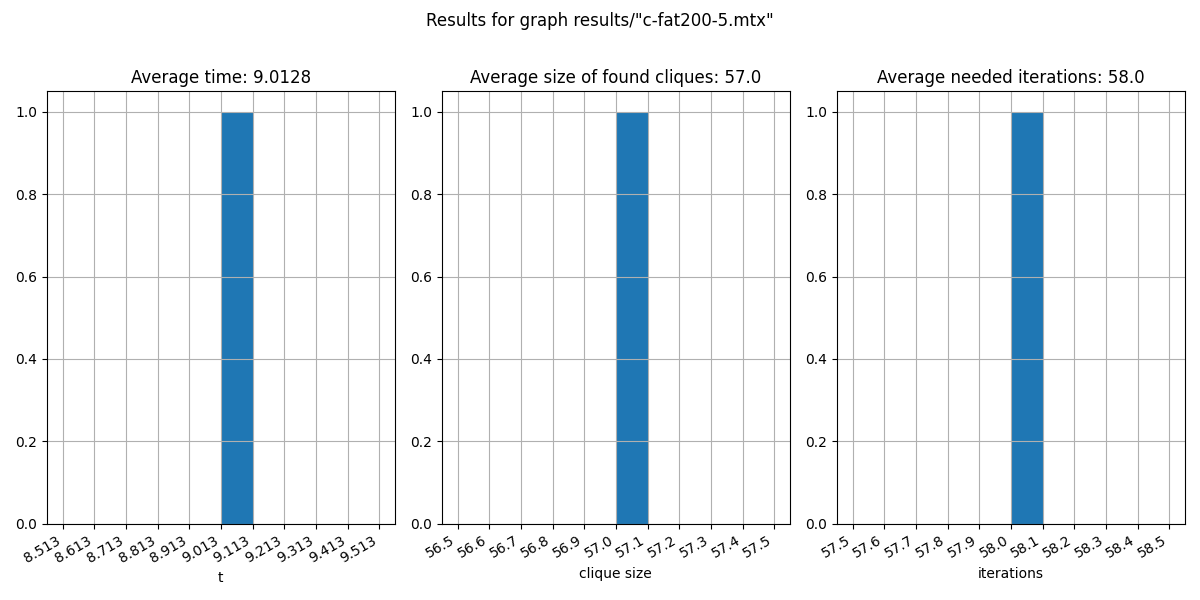
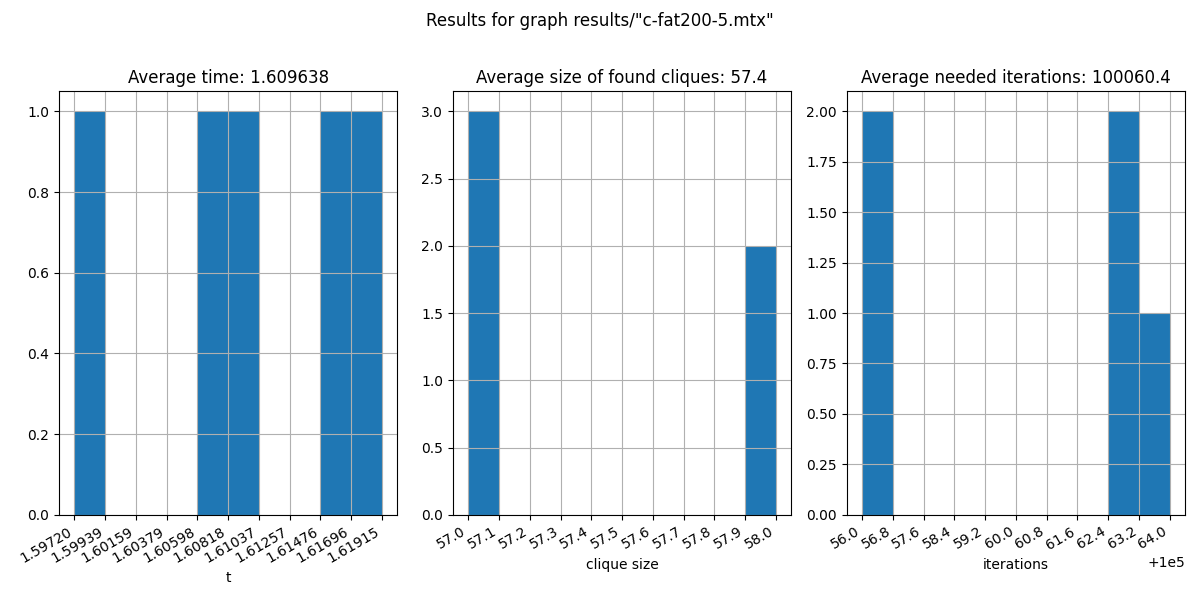
Popravljeno generisanje slucajnih brojeva

diff --git a/main.cpp b/main.cpp
@@ -25,52 +25,55 @@ int main() {
             std::vector<int> iterCounts{};
             std::vector<int> cliqueSizes{};
 
-            int maxIters = 100000;
-            int L = g.getNodeCount();
+            // ponavljamo za jedan graf 5 puta
+            for(int i = 1; i <= 5; ++i) {
+                int maxIters = 100000;                  // probati i sa nekim vecim parametrom potencijalno, ali to povlaci vece vreme
+                int L = g.getNodeCount();
 
-            auto start = std::chrono::high_resolution_clock::now();
+                auto start = std::chrono::high_resolution_clock::now();
 
-            int currentCliqueSize = 3;
-            int maxFoundCliqueSize = 0;
-            int totalIterations = 0;
+                int currentCliqueSize = 3;
+                int maxFoundCliqueSize = 0;
+                int totalIterations = 0;
 
-            
-            std::cout << "--------------------------------------------------------------------------" << std::endl;
-            std::cout << "Finding maximum clique in graph: " << dirEntry.path().stem() << std::endl;
-            std::cout << "--------------------------------------------------------------------------" << std::endl;
+                
+                std::cout << "--------------------------------------------------------------------------" << std::endl;
+                std::cout << "Finding maximum clique in graph: " << dirEntry.path().stem() << " attempt " << i << "/5"  << std::endl;
+                std::cout << "--------------------------------------------------------------------------" << std::endl;
 
-            while(true) {
-                std::cout << "Trying to find clique of size: " << currentCliqueSize << std::endl;
+                while(true) {
+                    std::cout << "Trying to find clique of size: " << currentCliqueSize << " ..... ";
 
-                auto [resultClique, passedIterations] = amts(g, currentCliqueSize, L, maxIters);
-
-                if(resultClique.size() == 0) {
-                    std::cout << "Failed to find clique of size " << currentCliqueSize << std::endl;
-                    break;
-                }
-                else {
-                    std::cout << "Found clique of size " << currentCliqueSize << " in " << passedIterations << " iterations" << std::endl;
-                    // std::cout << "Resulting clique { ";
-                    // for(auto& val : resultClique) {
-                    //     std::cout << val << " ";
-                    // }
-                    // std::cout << "}" << std::endl << std::endl;
-                    std::cout << std::endl;
-
-                    maxFoundCliqueSize = currentCliqueSize;
+                    auto [resultClique, passedIterations] = amts(g, currentCliqueSize, L, maxIters);
+                    
                     totalIterations += passedIterations;
+
+                    if(resultClique.size() == 0) {
+                        std::cout << "Failed to find clique of size " << currentCliqueSize << " in " << passedIterations << std::endl;
+                        break;
+                    }
+                    else {
+                        std::cout << "Found clique of size " << currentCliqueSize << " in " << passedIterations << " iterations" << std::endl;
+                        // std::cout << "Resulting clique { ";
+                        // for(auto& val : resultClique) {
+                        //     std::cout << val << " ";
+                        // }
+                        // std::cout << "}" << std::endl << std::endl;
+
+                        maxFoundCliqueSize = currentCliqueSize;
+                    }
+
+                    ++currentCliqueSize;
                 }
 
-                ++currentCliqueSize;
+                auto end = std::chrono::high_resolution_clock::now();
+                std::chrono::duration<double> diff = end - start;
+                // std::cout << diff.count() << std::endl;
+
+                times.emplace_back(diff.count());
+                cliqueSizes.emplace_back(maxFoundCliqueSize);
+                iterCounts.emplace_back(totalIterations);
             }
-
-            auto end = std::chrono::high_resolution_clock::now();
-            std::chrono::duration<double> diff = end - start;
-            // std::cout << diff.count() << std::endl;
-
-            times.emplace_back(diff.count());
-            cliqueSizes.emplace_back(maxFoundCliqueSize);
-            iterCounts.emplace_back(totalIterations);
 
             std::cout << std::endl;
             std::cout << "Exporting results......";

diff --git a/amts.cpp b/amts.cpp
@@ -79,7 +79,8 @@ void constructInitialSolution(std::unordered_set<int>& S, std::unordered_set<int
         }
         
         // vidi da li ovaj deo treba negde dugde da se izmesti
-        std::default_random_engine generator;
+        std::random_device rd;
+        std::mt19937 generator(rd());
         std::uniform_int_distribution<int> distribution(0, candidates.size() - 1);
 
         nodeToAdd = candidates[distribution(generator)];
@@ -160,7 +161,8 @@ std::tuple<CN, VECT, VECT, int, int> generateConstrainedNeighborhood(VECT& tabuL
 
 
 std::pair<int, int> calcTenures(int fS, int k) {
-    std::default_random_engine generator;
+    std::random_device rd;
+    std::mt19937 generator(rd());
     
     int l = std::min(10, k * (k - 1) / 2 - fS);
     int C = std::max(static_cast<int>(std::floor(k / 40)), 6);
@@ -178,7 +180,8 @@ std::pair<int, int> calcTenures(int fS, int k) {
 // param L je za otkrivanje stagnacije
 std::pair<std::unordered_set<int>, int> ts_0(Graph& g, std::unordered_set<int>& S, std::unordered_set<int>& notInS, std::vector<int>& frequencies, int k, int L, int iteration, int maxIters) {
     // za random 
-    std::default_random_engine generator;
+    std::random_device rd;
+    std::mt19937 generator(rd());
     
     // br uzastpnih iteracija koje se funkc f(S) nije poboljsala
     int tabuIters = 0;
@@ -249,7 +252,7 @@ std::pair<std::unordered_set<int>, int> ts_0(Graph& g, std::unordered_set<int>& 
             int u = -1;
             int v = -1;
 
-            std::uniform_real_distribution<double> distr_p(0, 1);
+            std::uniform_real_distribution<double> distr_p(0, std::nextafter(1, std::numeric_limits<double>::max()));
             if( distr_p(generator) < p) {
                 // ovde mi treba u= random iz skupa S, nema lep nacin u c++ tako da pravim vektor u kom su vrednsoti iz S pa cu iz njega da odaberem ]
                 std::vector<int> choiceVector(std::begin(S), std::end(S));
